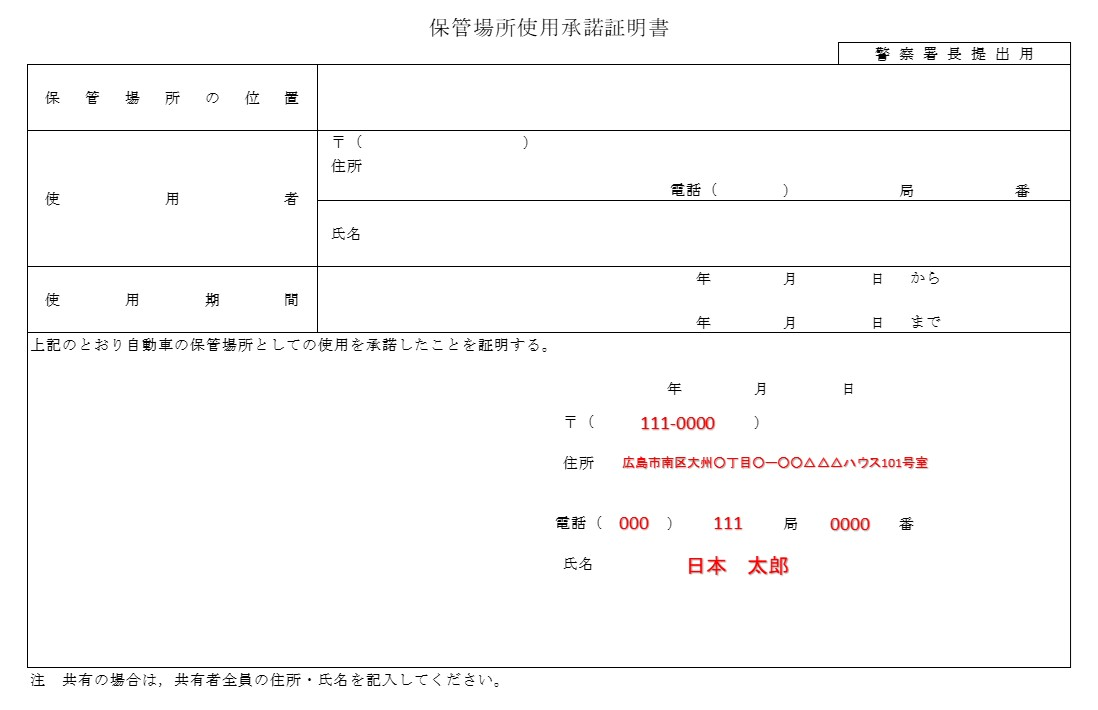
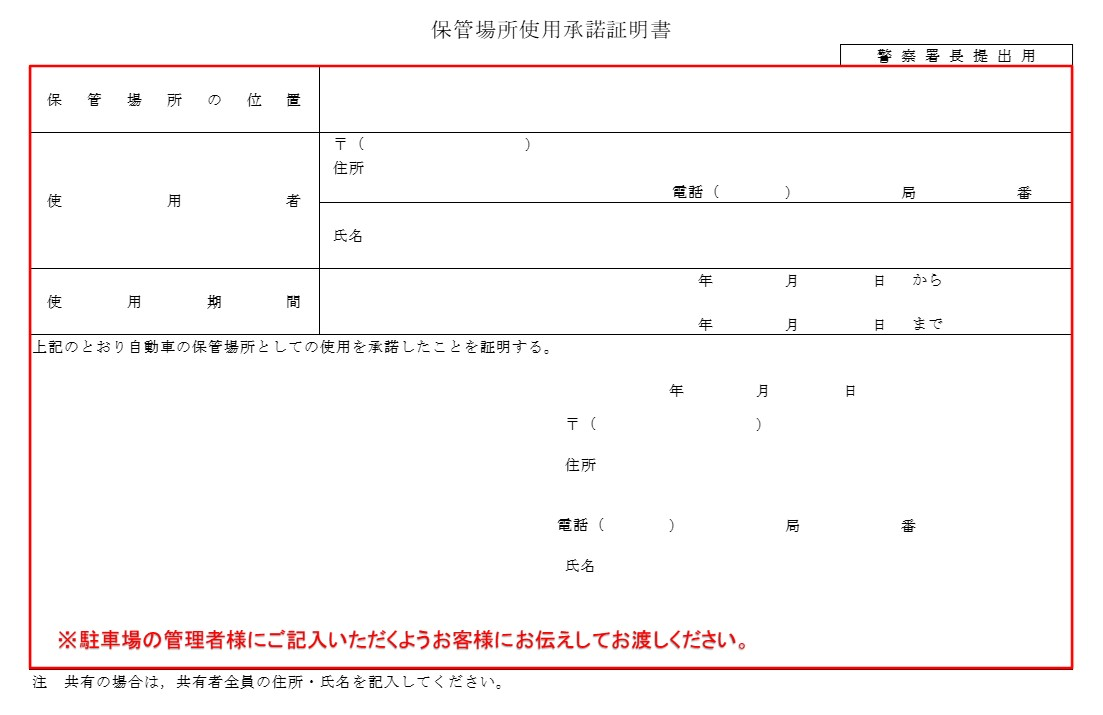
使用承諾書

diff --git a/pages/manual.vue b/pages/manual.vue
@@ -135,11 +135,53 @@ export default {
       },
 
       tradeInCarAndOtherConfirma: {
-        deathOfPersonKubun: "", //本人死亡区分
-        addressNotConnectedKubun: "", //住所繋がらない区分
-        ownerMinorKubun: "", //所有者未成年区分
-        recycling10000yenOfMoreKubun: "", //リサイクル預託金1万円以上区分
+        isDeathOfPerson: false, //本人逝去
+        isPurchasePriceOver100000yen: false, //買取10万円以上
+        isAddressNotConnected: false, //住所繋がらない
+        isOwnerMinor: false, //所有者未成年
+        isRecycling10000yenOfMore: false, //リサイクル預託金1万円以上
       },
+
+      purchaseDocuments: {
+        purchaseDetails: "買取明細書",
+        copyOfIdentityDocument: "本人確認書類コピー",
+        confirmationOfTransferDestination: "振込先確認書",
+      },
+
+      requiredDocumentsForRegularCars: {
+        ownershipReleaseRequest: "所有権解除依頼",
+        purchaseInvoiceShippingDestinationContactSlip: "仕入明細書発送先連絡票",
+        recyclingTicket: "リサイクル券",
+        vehicleInspectionCertificate: "車検証",
+        compulsoryAutomobileLiabilityInsuranceCertificate: "自賠責保険証",
+        automobileLiabilityInsuranceApprovalClaimForm: "自賠責承認請求書",
+        sealCertificate: "印鑑証明",
+        inheritanceDivisionAgreement: "遺産分割協議書",
+        familyRegister: "戸籍謄本",
+        revisedOriginalFamilyRegister: "改正原戸籍謄本",
+        residentCard: "住民票",
+        powerOfAttorney: "委任状",
+        transferCertificate: "譲渡証明書",
+        taxPaymentCertificate: "納税証明書",
+        motorVehicleTaxPaymentSlip: "自動車税支払伺書",
+        noticeOfAssignmentOfClaim: "債権譲渡通知書",
+        purchaseTradeInAgreement: "買取・下取同意書",
+        carCheckSheet: "カーチェックシート",
+      },
+      requiredDocumentsForLightVehicles: {
+        ownershipReleaseRequest: "所有権解除依頼",
+        purchaseInvoiceShippingDestinationContactSlip: "仕入明細書発送先連絡票",
+        recyclingTicket: "リサイクル券",
+        vehicleInspectionCertificate: "車検証",
+        compulsoryAutomobileLiabilityInsuranceCertificate: "自賠責保険証",
+        automobileLiabilityInsuranceApprovalClaimForm: "自賠責承認請求書",
+        applicationRequestForm: "申請依頼書",
+        taxAbolition: "税廃",
+        letterOfConsent: "承諾書",
+        purchaseTradeInAgreement: "買取・下取同意書",
+        carCheckSheet: "カーチェックシート",
+      },
+      purchase: {},
 
       // memos: [
       //   {
@@ -1987,7 +2029,7 @@ export default {
           "
         >
           <p class="explanation ml-16">
-            ・お客様がお車の保管場所を賃借されている場合、土地所有者から発行して頂く書類です。
+            ・駐車場がお客様自身の管理ではない場合、駐車場の管理者様に使用の許可を得るための書類です。
           </p>
         </v-row>
 
